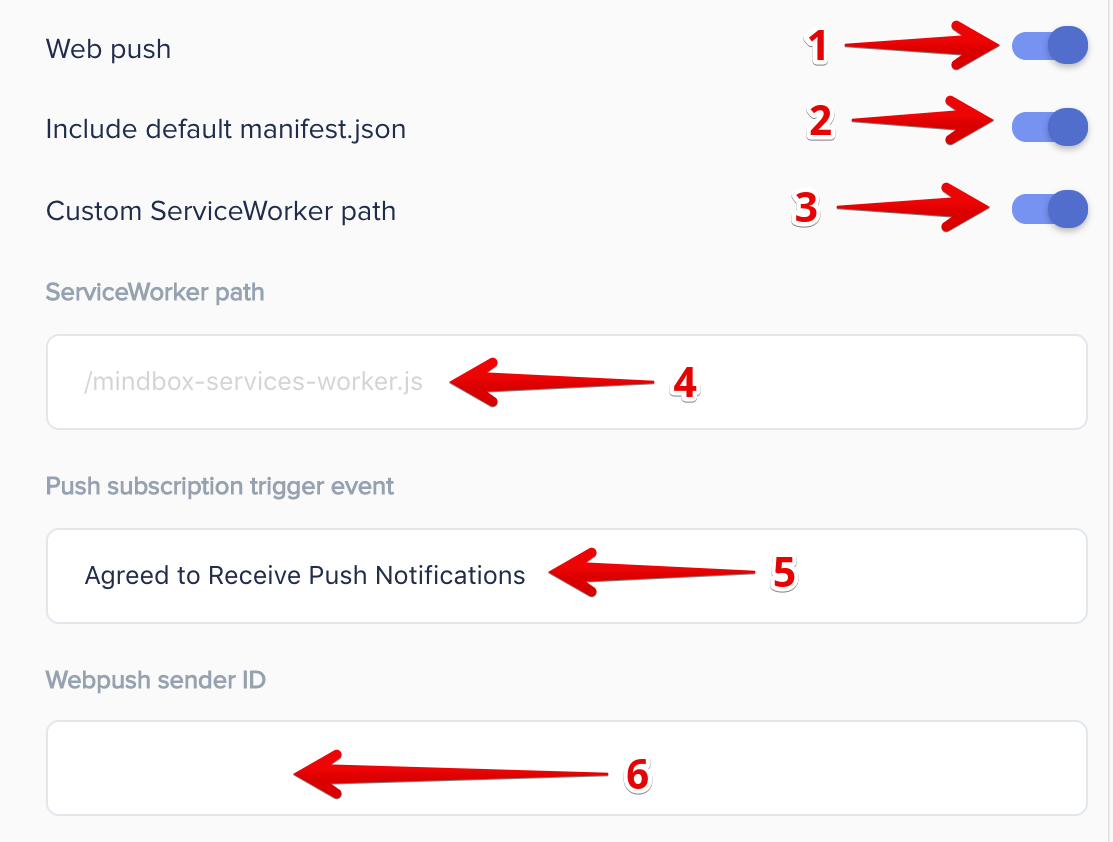
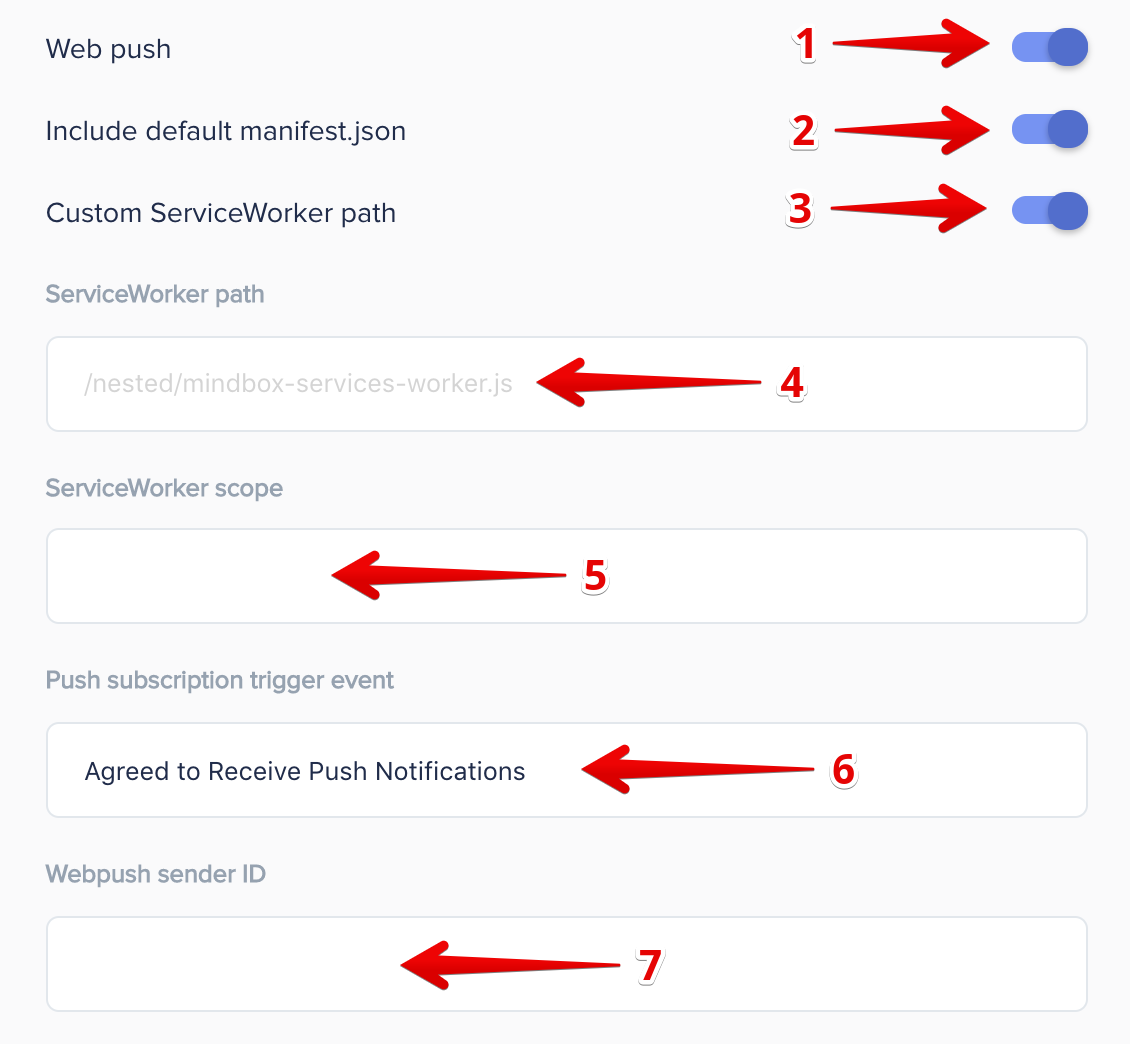
added mindbox serviceworker scope docs

diff --git a/_docs/integrations/mindbox.md b/_docs/integrations/mindbox.md
@@ -65,9 +65,9 @@ For Web push notifications to work several steps have to be completed, they are 
 
 - By toggling the (1) 'Web push' option, you enable the Mindbox Webpush module.
 - Enabling the (2) 'Include default manifest.json' setting will load the default [Mindbox manifest.json file](https://developers.mindbox.ru/page/webpush#section-2-%D0%BF%D0%BE%D0%B4%D0%BA%D0%BB%D1%8E%D1%87%D0%B8%D1%82%D0%B5-%D0%BC%D0%B0%D0%BD%D0%B8%D1%84%D0%B5%D1%81%D1%82). This setting should be disabled if your website has it's own manifest.json file.
-- In case the 'Serviceworker' file isn't in the root of your website as recommended in the Mindbox documentation, you can enable the (3) 'Custom ServiceWorker path' option, which will allow you to enter a custom path for the file in the (4) 'ServiceWorker path' field.
-- The (5) 'Push subscription trigger event' field contains the name of the event that activates the push notification subscription pop-up.
-- The (6) Webpush sender ID field should contain your Firebase messaging Sender Id, which you can get from your Mindbox manager.
+- In case the 'Serviceworker' file isn't in the root of your website as recommended in the Mindbox documentation, you can enable the (3) 'Custom ServiceWorker path' option, which will allow you to enter a custom path for the file in the (4) 'ServiceWorker path' field, and set the 'ServiceWorker scope' (5) setting, if recommended by your Mindbox manager.
+- The (6) 'Push subscription trigger event' field contains the name of the event that activates the push notification subscription pop-up.
+- The (7) Webpush sender ID field should contain your Firebase messaging Sender Id, which you can get from your Mindbox manager.
 
 > Please note! The service worker file must be registered at the root directory of your website.
 
